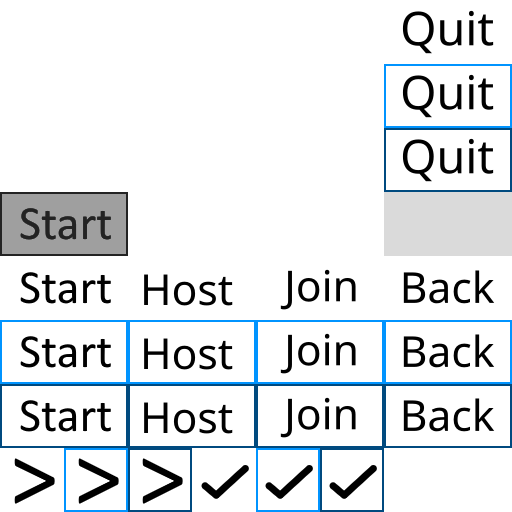
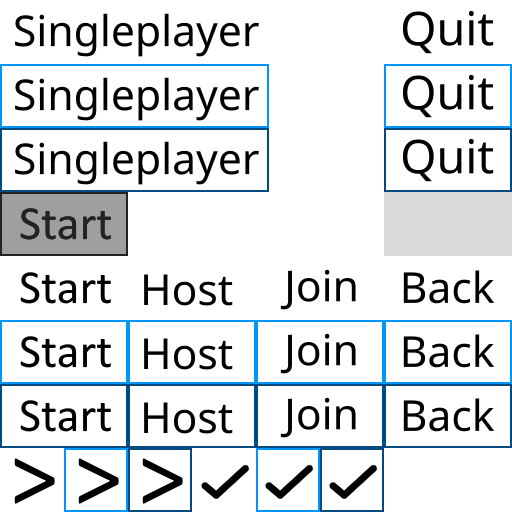
cleaned up todo list started working on the options menu made it so that when playing a single player game the window title text changes like when playing multiplayer made the start button say single player and made it wider

Changed region(s): [[0.0, 0.0312, 0.5312, 0.375]]

diff --git a/nPlayerConnect4/MainMenu.cpp b/nPlayerConnect4/MainMenu.cpp
@@ -8,11 +8,11 @@ void MainMenu::init()
 
 	Game2D::Rect tempRect;
 	Game2D::Sprite tempNormal, tempHover, tempClick;
-	tempRect = Game2D::Rect(0,-14,10,5);
+	tempRect = Game2D::Rect(0,-14,21,5);
 
-	tempNormal.setTextureCoords(Game2D::Rect(0, 0.375f, 0.25f, 0.125f));
-	tempHover.setTextureCoords(Game2D::Rect(0, 0.250f, 0.25f, 0.125f));
-	tempClick.setTextureCoords(Game2D::Rect(0, 0.125f, 0.25f, 0.125f));
+	tempNormal.setTextureCoords(Game2D::Rect(0, 0.875f, 0.525f, 0.125f));
+	tempHover.setTextureCoords(Game2D::Rect(0, 0.750f, 0.525f, 0.125f));
+	tempClick.setTextureCoords(Game2D::Rect(0, 0.625f, 0.525f, 0.125f));
 
 	tempNormal.setRect(tempRect);
 	tempHover.setRect(tempRect);
@@ -27,7 +27,6 @@ void MainMenu::init()
 	start.alignToDrawableObject();
 
 	tempRect = Game2D::Rect(5.5,-20,10,5);
-	host.setRect(tempRect);
 
 	tempNormal.setTextureCoords(Game2D::Rect(0.25f, 0.375f, 0.25f, 0.125f));
 	tempHover.setTextureCoords(Game2D::Rect(0.25f, 0.25f, 0.25f, 0.125f));
@@ -37,6 +36,7 @@ void MainMenu::init()
 	tempHover.setRect(tempRect);
 	tempClick.setRect(tempRect);
 
+	host.setRect(tempRect);
 	host.addStateSprites(tempNormal,tempHover,tempClick,tempClick,tempNormal);
 	host.alignToDrawableObject();
 

diff --git a/nPlayerConnect4/Engine.cpp b/nPlayerConnect4/Engine.cpp
@@ -281,6 +281,11 @@ void Engine::processMouse()
 				singlePlayerBoard.setBoardDims(singlePlayerMenu.getBoardWidth(),singlePlayerMenu.getBoardHeight());
 				singlePlayerBoard.setLineLength(singlePlayerMenu.getLineLength());
 				singlePlayerBoard.setNumPlayers(singlePlayerMenu.getNumPlayers());
+				std::string tempString;
+				tempString += std::to_string(singlePlayerMenu.getNumPlayers());
+				tempString += " Player Connect ";
+				tempString += std::to_string(singlePlayerMenu.getLineLength());
+				setWindowTitle(tempString);
 				singlePlayerBoard.initBoard();
 
 				currentState = PLAYING_SOLO;
@@ -301,6 +306,7 @@ void Engine::processMouse()
 			break;
 		case WIN:
 		case TIE:
+			setWindowTitle("n Player Connect 4");
 			if (mouseState == Game2D::KeyState::DOWN) {
 				currentState = SOLO_MENU;
 			}

diff --git a/nPlayerConnect4/Lobby.h b/nPlayerConnect4/Lobby.h
@@ -10,14 +10,11 @@
 #include <map>
 #include <Slider.h>
 
-
-//TODO add a join button texture and a back button texture
-//TODO add single player
+//TODO make single player button match the width of the host and the join buttons
+//TODO add options button either put it next to quit or make it the same width as single player
 //TODO add ability to change if from connect4 to connectx
-//TODO add quit button to main menu
 //TODO add pause menu to multiplayer
 //TODO show player number over piece on board for colourblind people
-//TODO reduce CPU load (make server wait for messages)
 
 class Lobby
 {

diff --git a/nPlayerConnect4/Client.cpp b/nPlayerConnect4/Client.cpp
@@ -110,7 +110,8 @@ int Client::processMouse(Game2D::Pos2 mousePos, Game2D::KeyState::State mouseSta
 
 					if(winTitle){
 						std::string tempStr = std::to_string(noPlayers);
-						tempStr += " Player Connect 4";
+						tempStr += " Player Connect ";
+						tempStr += std::to_string(4);
 						winTitle(tempStr);
 					}
 

diff --git a/nPlayerConnect4/Engine.h b/nPlayerConnect4/Engine.h
@@ -17,7 +17,7 @@
 class Engine
 {
 private:
-	enum State { MENU, CONNECT, LOBBY, SOLO_MENU, PLAYING_SOLO, PLAYING_MULTI, WIN, TIE, EXIT };
+	enum State { MENU, CONNECT, OPTIONS, SOLO_MENU, PLAYING_SOLO, PLAYING_MULTI, WIN, TIE, EXIT };
 
 	static GLFWwindow* window;
 	static int screenWidth, screenHeight;
